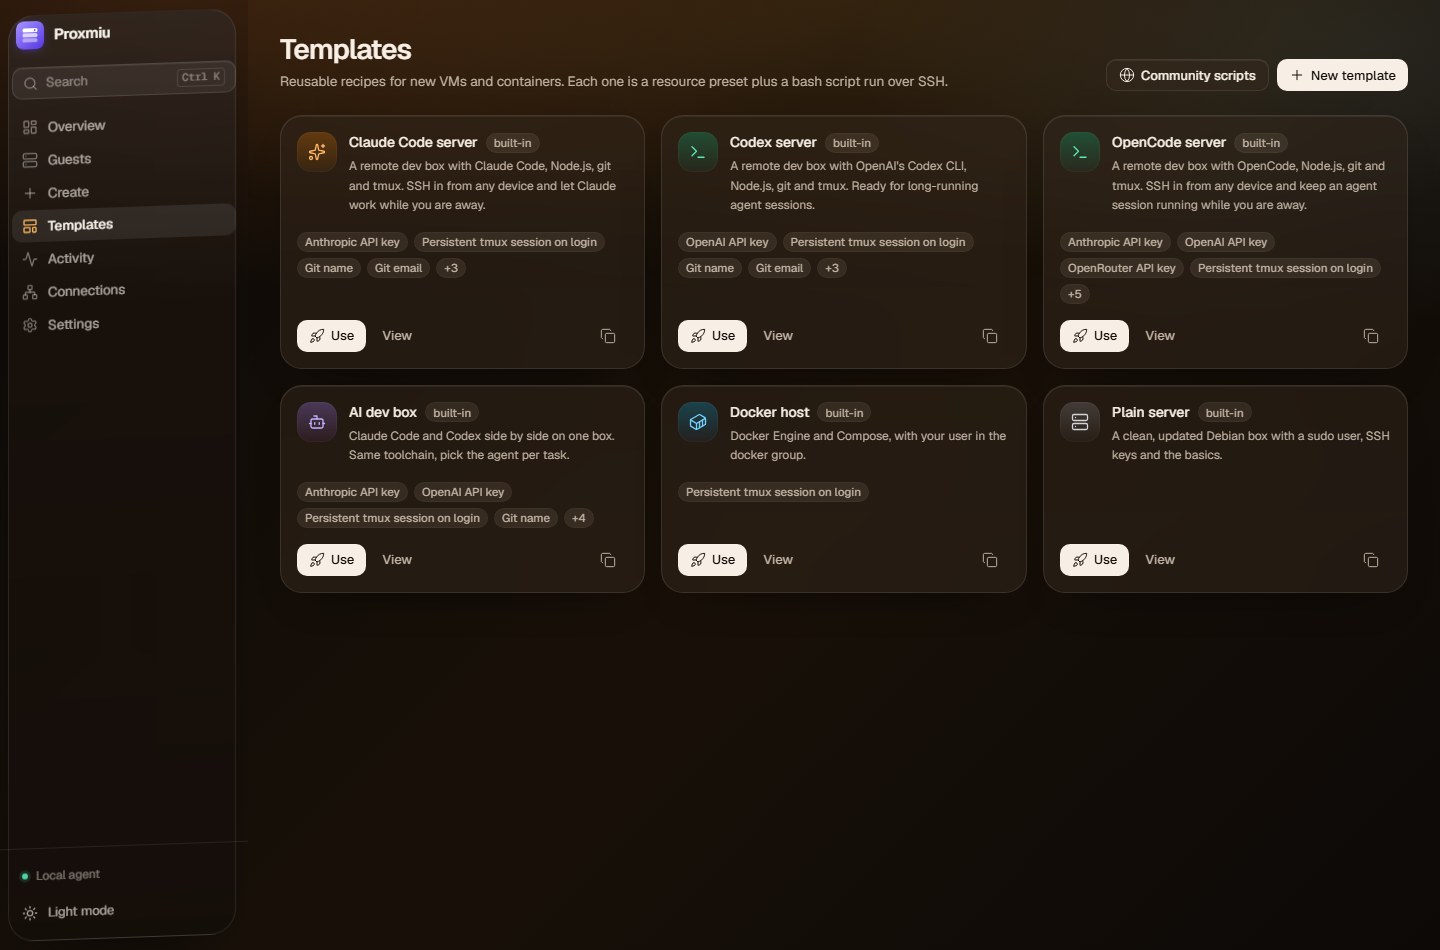
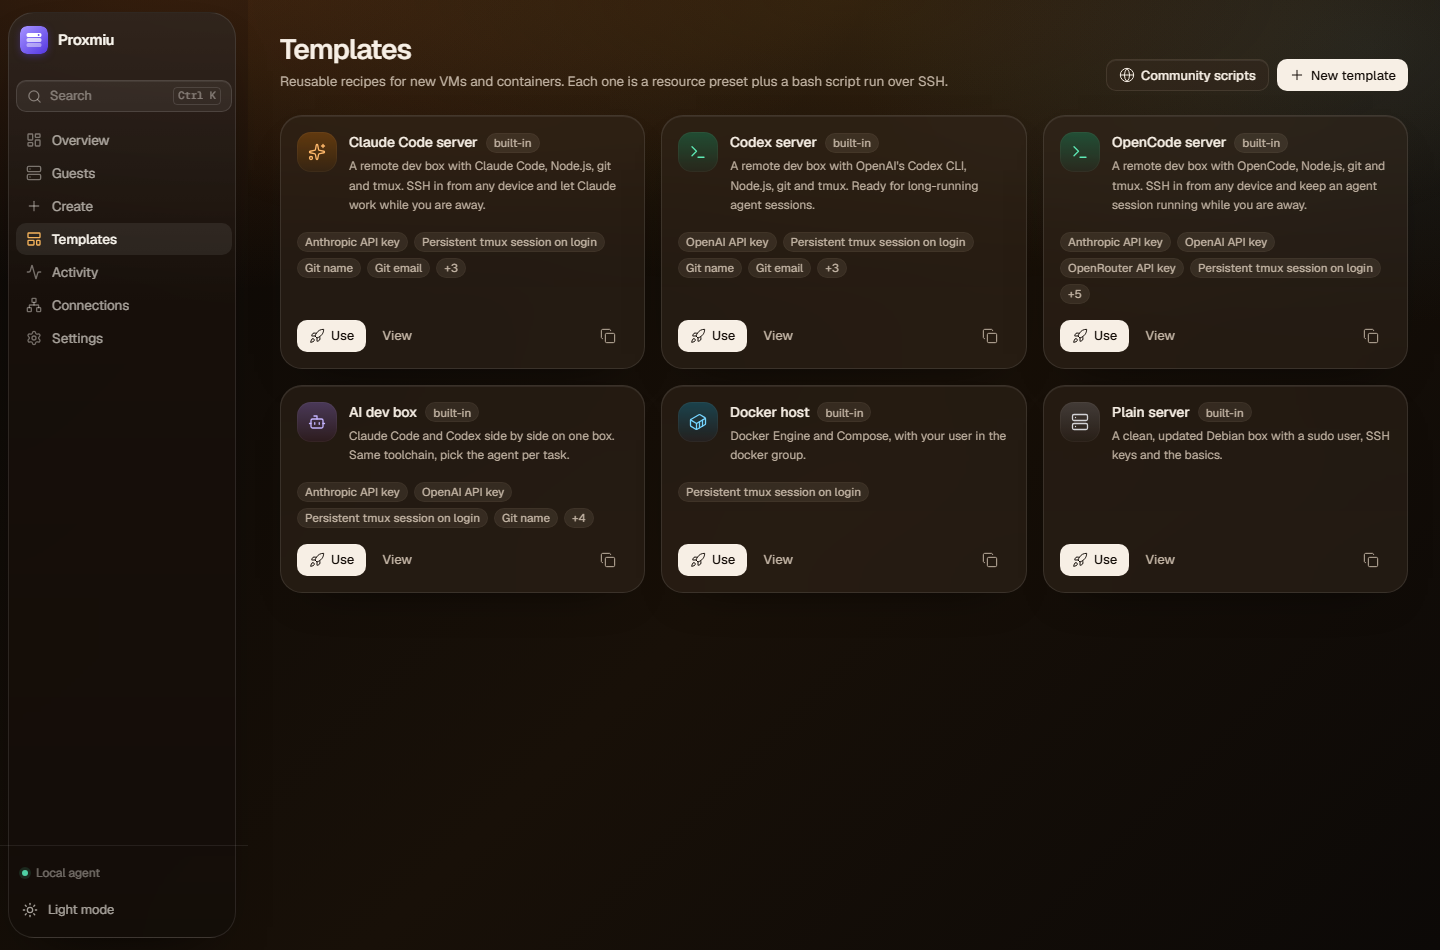
Flatten the rail and refresh screenshots

Changed region(s): [[0.0, 0.0, 0.0938, 0.3663], [0.125, 0.0611, 0.1562, 0.1221], [0.0312, 0.9158, 0.0625, 0.9768]]

diff --git a/index.html b/index.html
@@ -18,11 +18,11 @@
       property="og:description"
       content="Power actions, browser SSH, and ready-to-use AI dev boxes from templates. Self-hosted on your LAN."
     />
-    <meta property="og:image" content="https://proxmiu.com/screenshots/overview.png?v=6" />
+    <meta property="og:image" content="https://proxmiu.com/screenshots/overview.png?v=7" />
     <meta name="twitter:card" content="summary_large_image" />
     <meta name="twitter:title" content="Proxmiu — manage Proxmox VE from the browser" />
     <meta name="twitter:description" content="Power actions, browser SSH, and ready-to-use AI dev boxes from templates. Self-hosted on your LAN." />
-    <meta name="twitter:image" content="https://proxmiu.com/screenshots/overview.png?v=6" />
+    <meta name="twitter:image" content="https://proxmiu.com/screenshots/overview.png?v=7" />
     <link rel="icon" type="image/svg+xml" href="favicon.svg" />
     <link rel="apple-touch-icon" href="apple-touch-icon.png" />
     <link rel="stylesheet" href="styles.css" />
@@ -70,7 +70,7 @@
 
       <section class="hero-stage">
         <div class="hero-shot">
-          <img src="screenshots/overview.png?v=6" alt="Proxmiu overview showing nodes, guests and live resource usage" />
+          <img src="screenshots/overview.png?v=7" alt="Proxmiu overview showing nodes, guests and live resource usage" />
         </div>
       </section>
 
@@ -137,37 +137,37 @@
         </div>
         <div class="shots">
           <figure class="shot-wide">
-            <img src="screenshots/guests.png?v=6" alt="Guest list with live status, addresses and actions" loading="lazy" />
+            <img src="screenshots/guests.png?v=7" alt="Guest list with live status, addresses and actions" loading="lazy" />
             <figcaption><strong>Guests.</strong> Live status, addresses and usage with one-click SSH, reboot and more.</figcaption>
           </figure>
           <figure>
-            <img src="screenshots/create.png?v=6" alt="Creating a Claude Code server from a template" loading="lazy" />
+            <img src="screenshots/create.png?v=7" alt="Creating a Claude Code server from a template" loading="lazy" />
             <figcaption><strong>Create.</strong> A Claude Code server from a template, with every setting adjustable.</figcaption>
           </figure>
           <figure>
-            <img src="screenshots/settings.png?v=6" alt="Proxmiu settings with the SSH key and self-update" loading="lazy" />
+            <img src="screenshots/settings.png?v=7" alt="Proxmiu settings with the SSH key and self-update" loading="lazy" />
             <figcaption><strong>Settings and updates.</strong> Your key, access, and opt-in agent updates in one place.</figcaption>
           </figure>
           <figure class="shot-wide">
-            <img src="screenshots/command-palette.png?v=6" alt="Proxmiu command palette" loading="lazy" />
+            <img src="screenshots/command-palette.png?v=7" alt="Proxmiu command palette" loading="lazy" />
             <figcaption><strong>Command palette.</strong> Jump to any guest, template or page without leaving the keyboard.</figcaption>
           </figure>
           <figure>
-            <img src="screenshots/templates.png?v=6" alt="Proxmiu template gallery" loading="lazy" />
+            <img src="screenshots/templates.png?v=7" alt="Proxmiu template gallery" loading="lazy" />
             <figcaption><strong>Templates.</strong> Built-in AI boxes, custom recipes and Community Scripts.</figcaption>
           </figure>
           <figure>
-            <img src="screenshots/connections.png?v=6" alt="Proxmiu connections and host discovery" loading="lazy" />
+            <img src="screenshots/connections.png?v=7" alt="Proxmiu connections and host discovery" loading="lazy" />
             <figcaption><strong>Connections.</strong> Find Proxmox hosts on your LAN and keep them together.</figcaption>
           </figure>
           <figure class="shot-wide">
-            <img src="screenshots/overview-light.png?v=6" alt="Proxmiu overview in light mode" loading="lazy" />
+            <img src="screenshots/overview-light.png?v=7" alt="Proxmiu overview in light mode" loading="lazy" />
             <figcaption><strong>Light mode.</strong> The same glass language, brightened for daylight.</figcaption>
           </figure>
         </div>
         <div class="mobile-showcase">
-          <img src="screenshots/mobile-overview.png?v=6" alt="Proxmiu on an iPhone: overview" loading="lazy" />
-          <img src="screenshots/mobile-guests.png?v=6" alt="Proxmiu on an iPhone: guests" loading="lazy" />
+          <img src="screenshots/mobile-overview.png?v=7" alt="Proxmiu on an iPhone: overview" loading="lazy" />
+          <img src="screenshots/mobile-guests.png?v=7" alt="Proxmiu on an iPhone: guests" loading="lazy" />
           <div>
             <div class="eyebrow">On the go</div>
             <h3>The homelab in your pocket.</h3>

diff --git a/styles.css b/styles.css
@@ -293,7 +293,6 @@ h1 {
 }
 
 .hero-stage {
-  perspective: 1500px;
   display: flex;
   justify-content: center;
   padding: 38px 0 54px;
@@ -307,8 +306,6 @@ h1 {
   background: linear-gradient(145deg, rgba(30, 33, 44, 0.96), rgba(14, 17, 24, 0.92));
   backdrop-filter: blur(22px) saturate(140%);
   -webkit-backdrop-filter: blur(22px) saturate(140%);
-  transform: rotateX(2deg) rotateY(-4.5deg) rotateZ(-0.8deg);
-  transform-style: preserve-3d;
   box-shadow:
     0 60px 130px -45px rgba(45, 32, 20, 0.65),
     0 0 0 1px rgba(255, 255, 255, 0.08),
@@ -813,14 +810,12 @@ h1 {
   }
 
   .hero-stage {
-    perspective: 1000px;
     padding: 24px 0 34px;
   }
 
   .hero-shot {
     padding: 6px;
     border-radius: 20px;
-    transform: rotateX(1deg) rotateY(-2deg) rotateZ(-0.4deg);
   }
 
   .hero-shot img,
